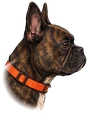
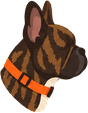
Hooper: flat art from inmotion-video handoff A9
Torso no longer carries the tops of his legs, so the legs swing out from under
the belly line. Same rig and gallop; pieces fitted to the old frames.

Claude-Session: https://claude.ai/code/session_01NNuGcPYRv9PiVLdxirixLQ

diff --git a/scene/runner.js b/scene/runner.js
@@ -489,7 +489,7 @@ function makeDog(imgs, parts, opt){
     requestAnimationFrame(frame)}
   function loadDog(){var dn=['torso','head','fu','fl','fp','hu','hl','hp'],di={},dl=dn.length;
     dn.forEach(function(n){var i=new Image();i.onload=i.onerror=function(){if(--dl===0&&dn.every(function(k){return di[k].naturalWidth>0})){dog=makeDog(di,DOGPARTS,{imgScale:0.3});if(paw&&!(G&&!G.over))paw.hidden=false}};
-      i.src='scene/hooper/'+n+'.webp?v=5';di[n]=i})}
+      i.src='scene/hooper/'+n+'.webp?v=6';di[n]=i})}
   names.forEach(function(n){var i=new Image();i.onload=i.onerror=function(){if(--left===0)outfitImages().then(start)};i.src='scene/runner/'+n+'.webp?v=3';imgs[n]=i});
   size();drawGrid();window.addEventListener('resize',function(){size();drawGrid();drawRunner()});
 })();

diff --git a/index.html b/index.html
@@ -269,6 +269,6 @@ h1.on{animation:on .5s steps(1) forwards,glitch 4.5s steps(1) 1.6s infinite;anim
 </script>
 <script src="next-up/next-up.js?v=2"></script>
 <script src="scene/outfit-fit.js?v=2"></script>
-<script src="scene/runner.js?v=19"></script>
+<script src="scene/runner.js?v=20"></script>
 <script src="gear/carousel.js?v=2"></script>
 </body></html>
